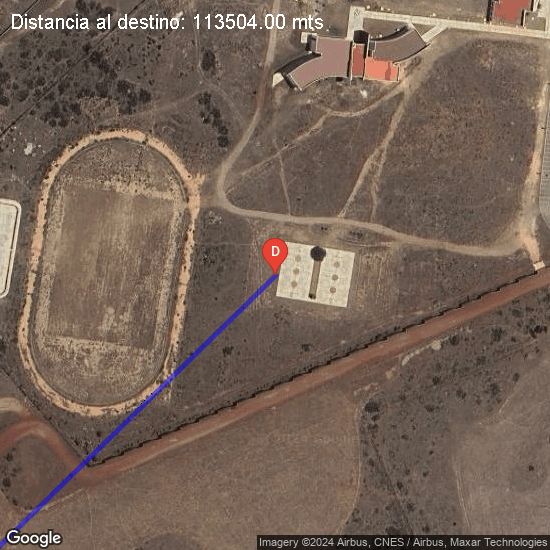
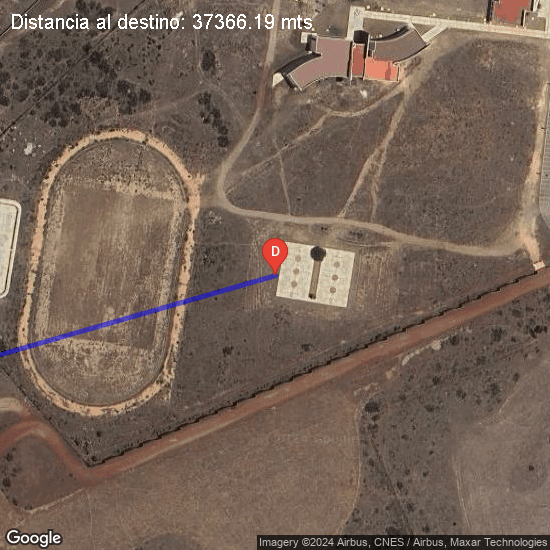
actualizacion de codigo del 14_05

diff --git a/intScor.py b/intScor.py
@@ -62,11 +62,11 @@ def load_data_from_csv(filename):
 
 
 # Función para cargar el mapa de Google Maps
-def cargar_mapa(mi_latitud, mi_longitud, destino_latitud, destino_longitud, zoom, tamaño):
+def cargar_mapa(mi_latitud, mi_longitud, destino_latitud, destino_longitud, zoom=18, tamaño="550x550"):
     api_key = "AIzaSyDzdqPpaND_WEWZauxETqi5AdfhaCDI7yw" 
     maptype = "satellite"
     marker_destino = f"markers=color:red|label:D|{destino_latitud},{destino_longitud}"
-    marker_origen = f"markers=color:green|label:U|{mi_latitud},{mi_longitud}"
+    marker_origen = f"markers=color:green|label:O|{mi_latitud},{mi_longitud}"
     distancia = geodesic((mi_latitud, mi_longitud), (destino_latitud, destino_longitud)).meters
     texto_distancia = f"Distancia al destino: {distancia:.2f} mts"
     url = f"https://maps.googleapis.com/maps/api/staticmap?center={destino_latitud},{destino_longitud}&zoom={zoom}&size={tamaño}&key={api_key}&maptype={maptype}&{marker_destino}&{marker_origen}&markers=size:mid|color:blue|label:D|{mi_latitud},{mi_longitud}&path=color:0x0000ff|weight:5|{mi_latitud},{mi_longitud}|{destino_latitud},{destino_longitud}"
@@ -82,18 +82,21 @@ def cargar_mapa(mi_latitud, mi_longitud, destino_latitud, destino_longitud, zoom
     return mapa
 
 def obtener_ubicacion_actual():
-    api_key = "AIzaSyDzdqPpaND_WEWZauxETqi5AdfhaCDI7yw" 
-    url = f"https://www.googleapis.com/geolocation/v1/geolocate?key={api_key}"
-    response = requests.post(url)
-    data = response.json()
-    #print(data)
-    if 'location' in data:
-        latitud = data['location']['lat']
-        longitud = data['location']['lng']
-        return latitud, longitud
-    else:
-        print("No se pudo obtener la ubicación.")
-        return None, None
+    try:
+        api_key = "AIzaSyDzdqPpaND_WEWZauxETqi5AdfhaCDI7yw" 
+        url = f"https://www.googleapis.com/geolocation/v1/geolocate?key={api_key}"
+        response = requests.post(url)
+        data = response.json()
+        print(data)
+        if 'location' in data:
+            latitud = data['location']['lat']
+            longitud = data['location']['lng']
+            return latitud, longitud
+        else:
+            print("No se pudo obtener la ubicación.")
+            return None, None
+    except Exception as e:
+        print(e)
 
 # Función para generar la gráfica usando matplotlib
 def generate_graph(data, i):
@@ -176,10 +179,10 @@ latitud, longitud = obtener_ubicacion_actual()
 # Destino debera tener las del satelite cansat
 des_latitud = "20.133534"
 des_long = "-98.383157"
-zoom = 18
-tamaño = "550x550"
+#zoom = 18
+#tamaño = "550x550"
 
-mapa = cargar_mapa(latitud, longitud,des_latitud,des_long, zoom, tamaño)
+mapa = cargar_mapa(latitud, longitud,des_latitud,des_long)
 
 
 # Bucle principal
